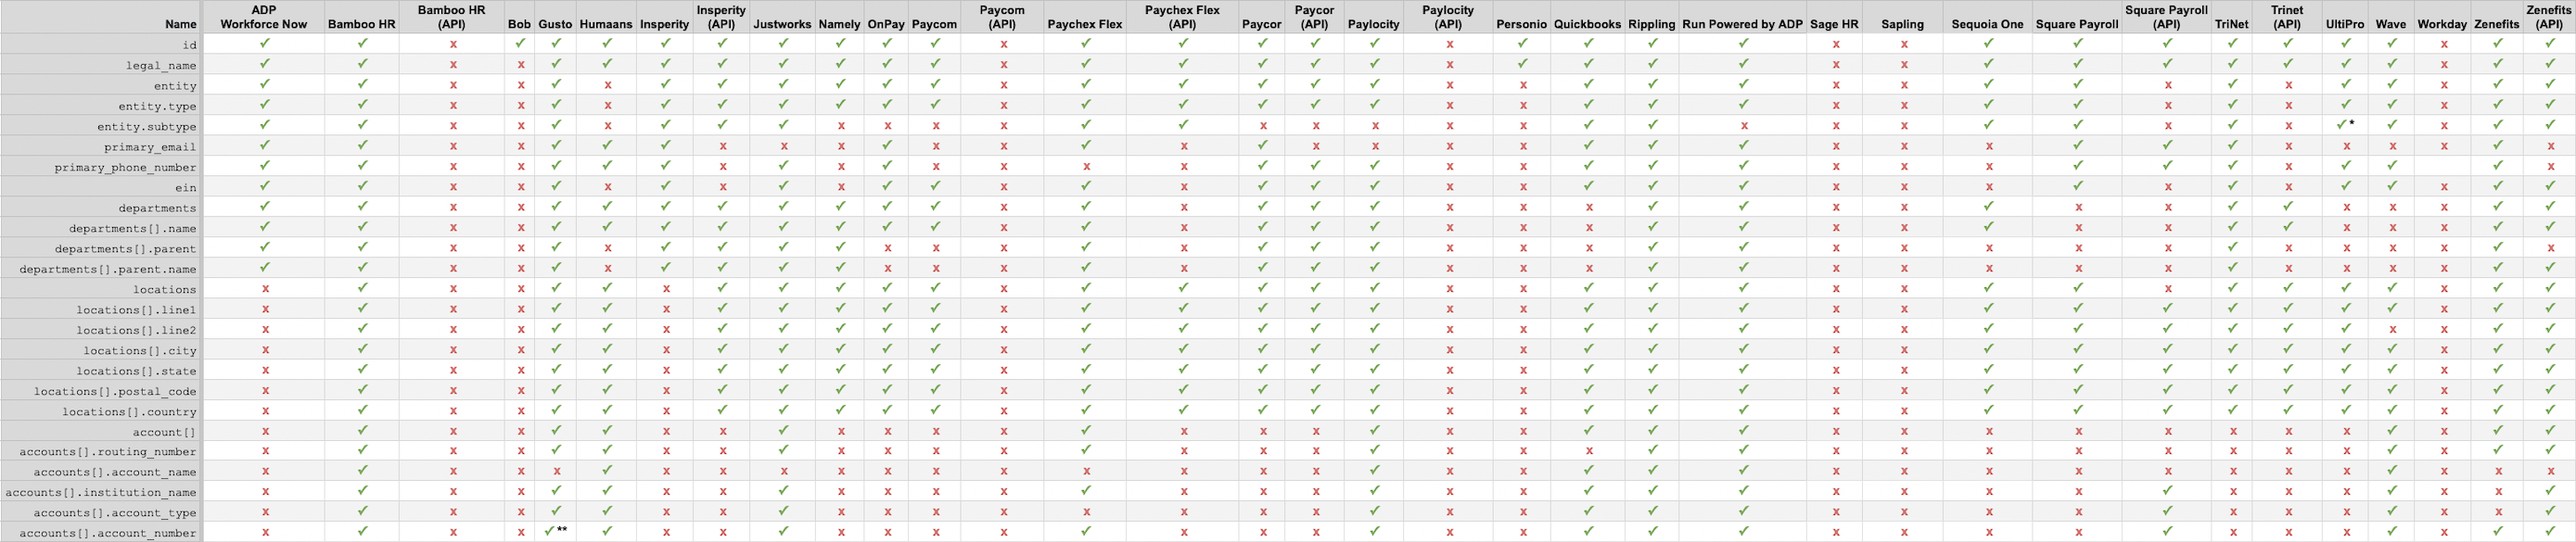
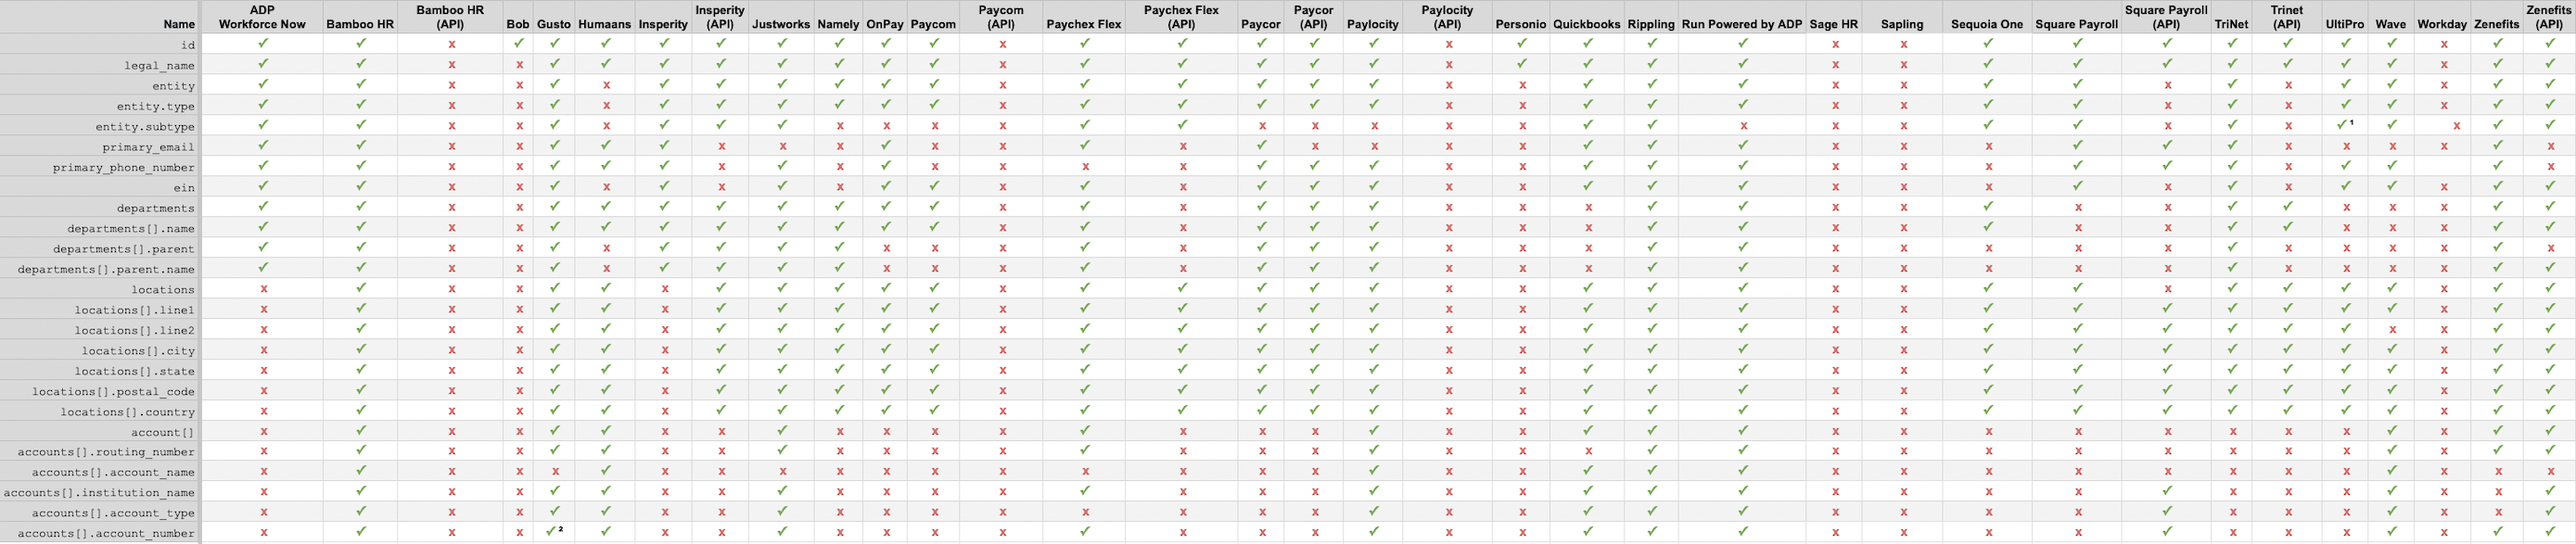
feat: Update footnote symbols used in compatibility docs (#237)
### What

Updates the footnote symbols from being n-asterisks to numeric superscript characters.

Also adds OnPay to /directory because that was missing.

### Why

Ultimate scalability.

diff --git a/docs/Development-Guides/Field-Support/Compatibility.md b/docs/Development-Guides/Field-Support/Compatibility.md
@@ -24,27 +24,27 @@ title: HRIS
 ### Company
 ![company.png](../../../assets/images/company.png)
 
-<p><i>* Only available by inferring from entity.type</i><br>
-<i>** account_number is mask and only shows the last 4 digits</i></p>
+<p><i>¹ Only available by inferring from entity.type</i><br>
+<i>² account_number is mask and only shows the last 4 digits</i></p>
 
 ### Directory
 ![directory.png](../../../assets/images/directory.png)
 
-<p><i>* Initial only</i></p>
+<p><i>¹ Initial only</i></p>
 
 ### Individual
 ![individual.png](../../../assets/images/individual.png)
 
-<p><i>* Initial only</i><br>
-<i>** No work email available</i><br>
-<i>*** Contractors don't have these fields in the QBO system</i></p>
+<p><i>¹ Initial only</i><br>
+<i>² No work email available</i><br>
+<i>³ Contractors don't have these fields in the QBO system</i></p>
 
 ### Employment
 ![employment.png](../../../assets/images/employment.png)
 
-<p><i>* Initial only</i><br>
-<i>** Requires customer to be at highest package tier, ADP Run Pro</i></br>
-<i>*** These fields are not provided for contractors</i></p>
+<p><i>¹ Initial only</i><br>
+<i>² Requires customer to be at highest package tier, ADP Run Pro</i></br>
+<i>³ These fields are not provided for contractors</i></p>
 
 ### Payment
 ![payment.png](../../../assets/images/payment.png)
@@ -52,9 +52,9 @@ title: HRIS
 ### Pay Statement
 ![pay-statement.png](../../../assets/images/pay-statement.png)
 
-<p><i>* 401k Match cannot be set on Justworks</i><br>
-<i>** Paychex Flex only exposes the previous 24 months of pay data</i></br>
-<i>***Attribute not always available via Paylocity's API</i></p>
+<p><i>¹ 401k Match cannot be set on Justworks</i><br>
+<i>² Paychex Flex only exposes the previous 24 months of pay data</i></br>
+<i>³Attribute not always available via Paylocity's API</i></p>
 
 <!--
 type: tab
